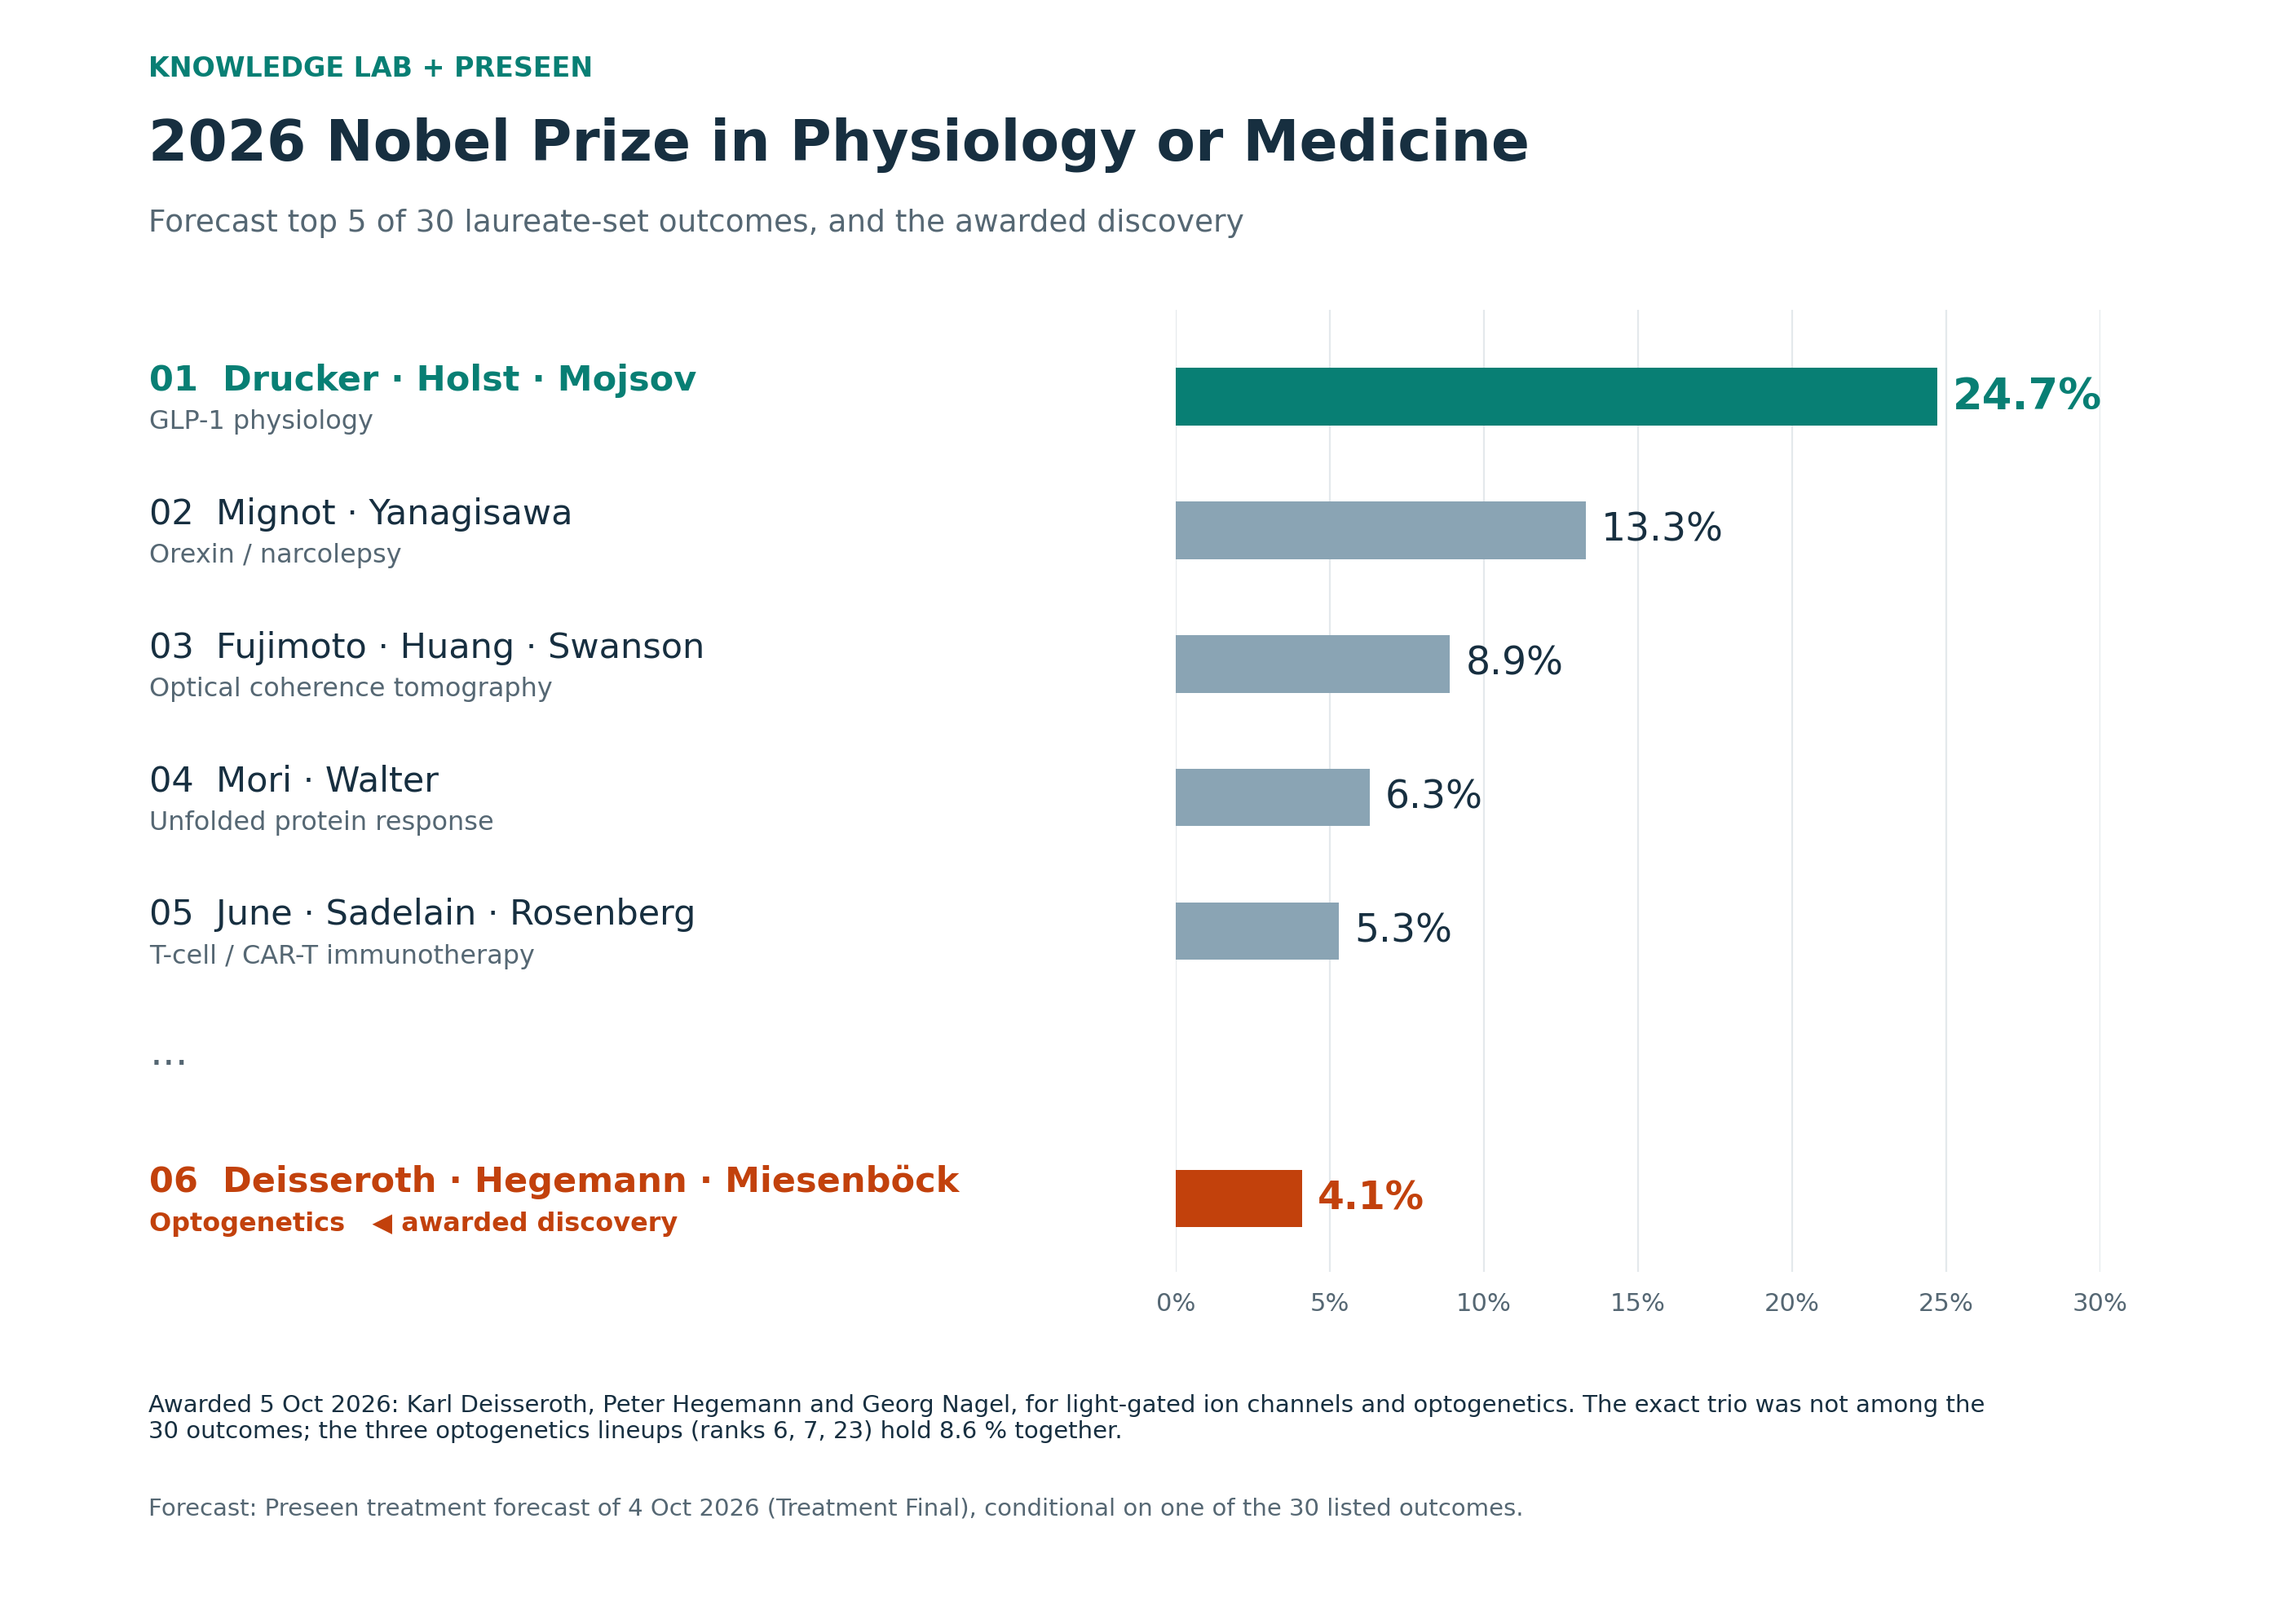
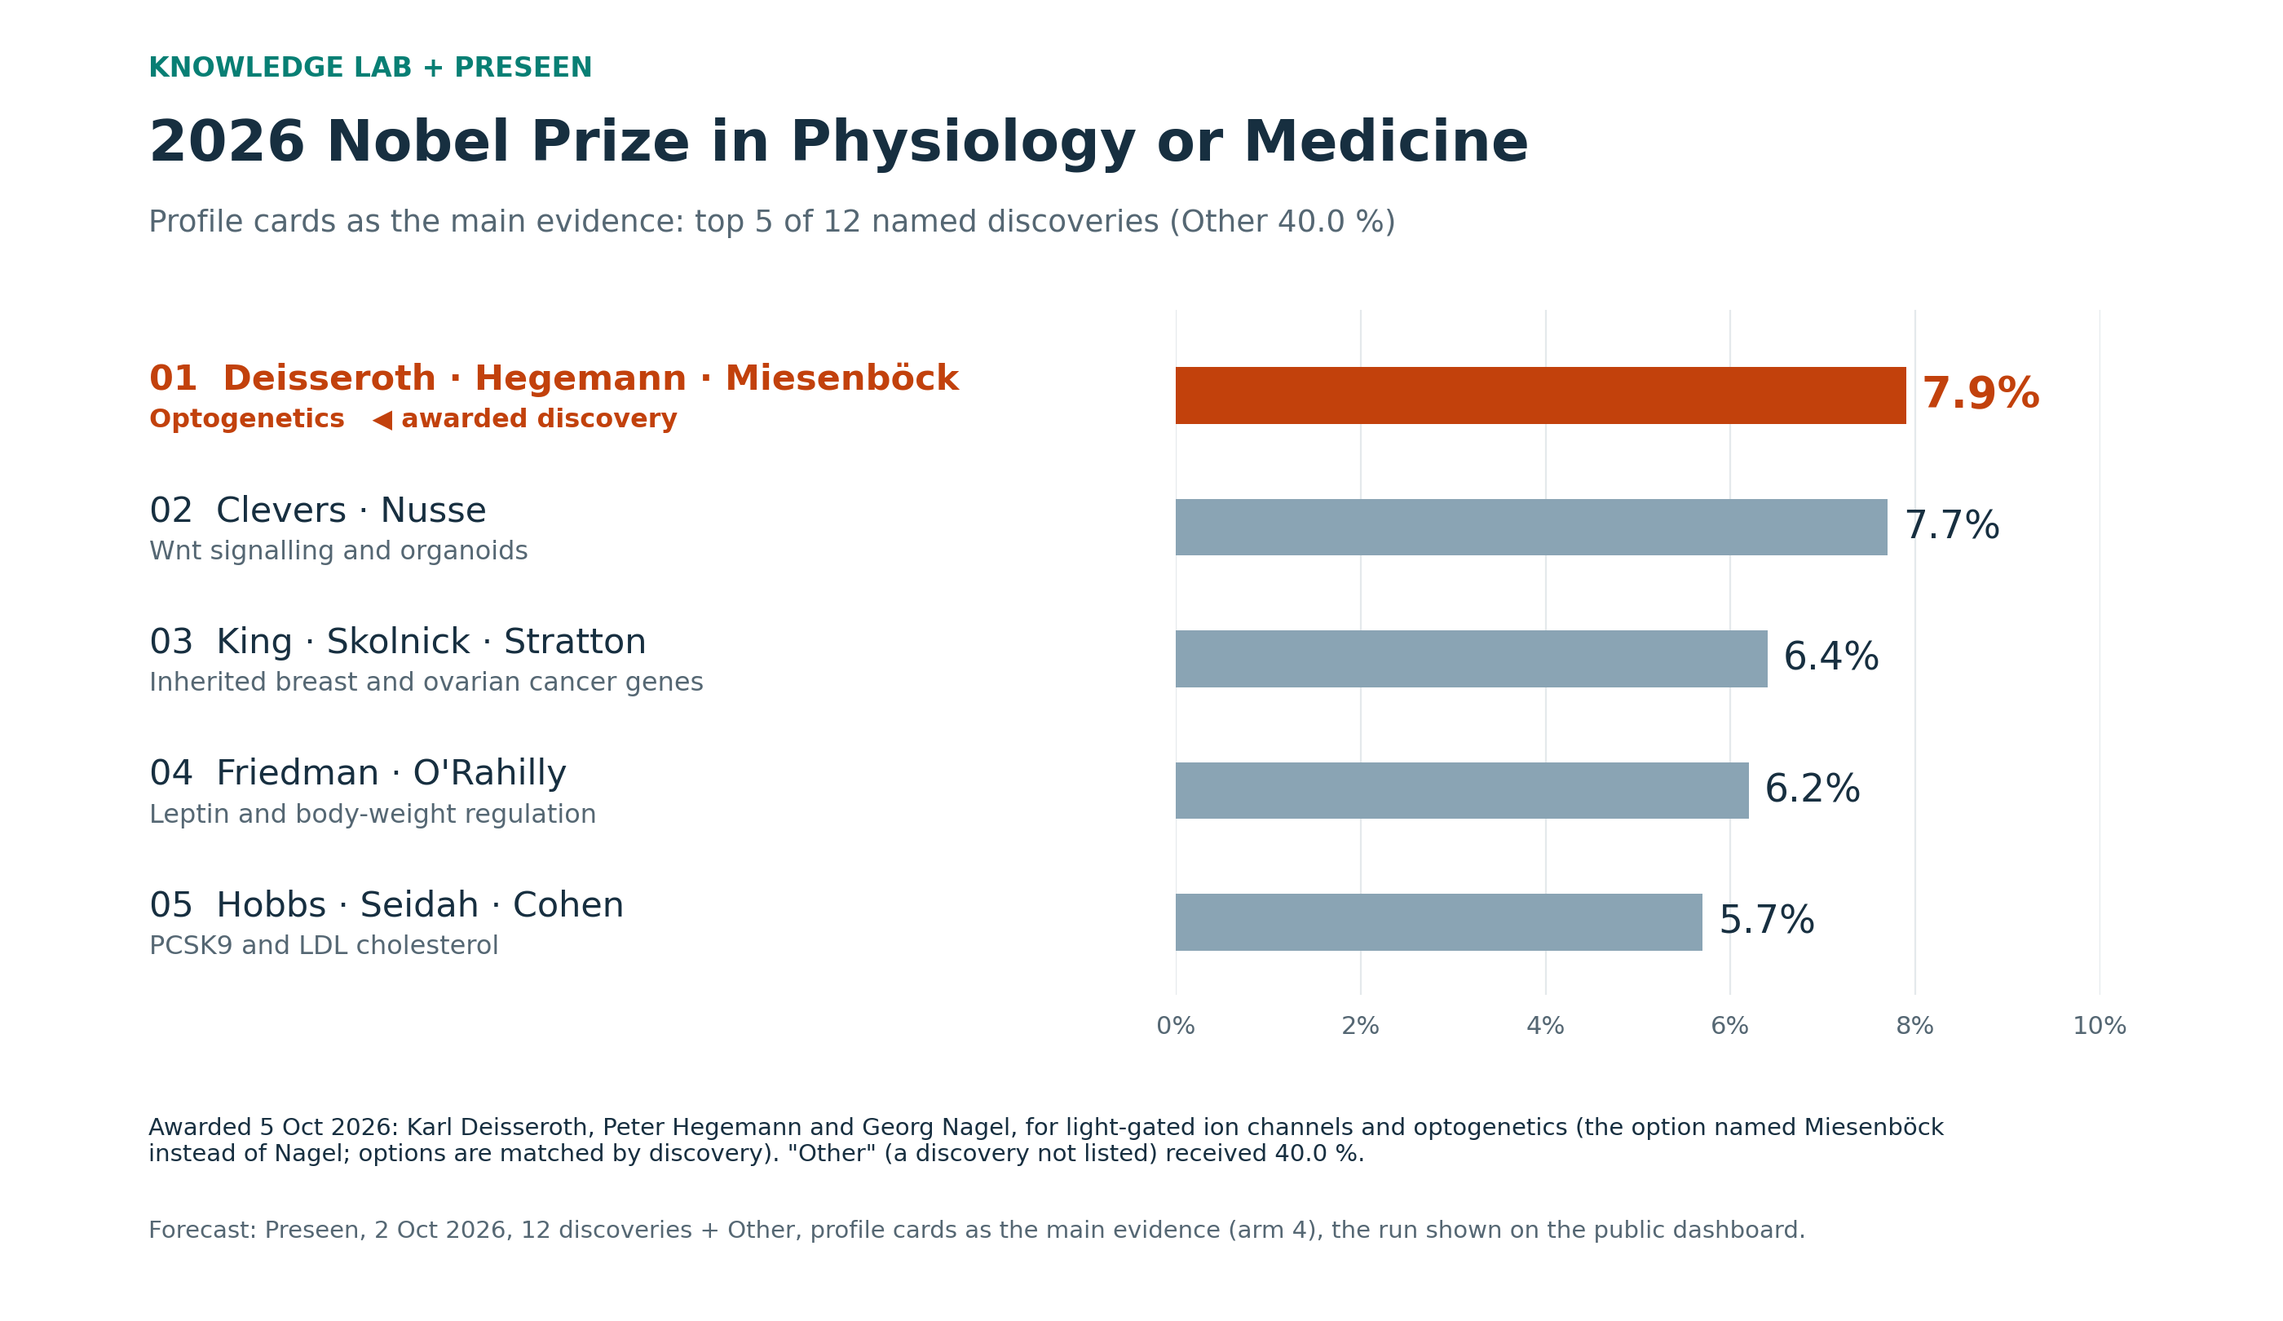
README: Medicine results and setup from the public dashboard (arm 4, cards as the main evidence, 2 October); figure redrawn from that run

diff --git a/docs/nobel2026/make_figures.py b/docs/nobel2026/make_figures.py
@@ -3,7 +3,9 @@
 
     $PY docs/nobel2026/make_figures.py      # -> docs/nobel2026/{medicine,physics}_2026_top5_vs_award.{png,svg}
 
-Data: Data/Result/nobel_{medicine,physics}_2026_probabilities.csv (the final Preseen forecasts, 30 outcomes each). The
+Data: Data/Result/nobel_medicine_2026_cards_main_evidence.csv (the 2 October run with the profile cards as the main
+evidence, 12 discoveries + Other, as on the public dashboard) and Data/Result/nobel_physics_2026_probabilities.csv (the
+5 October final forecast, 30 discoveries). The
 layout follows Data/Result/Figure_Nobel.ipynb (same header, colours and row geometry); added here: the awarded
 discovery is drawn in a second accent colour and, when it is outside the top 5, shown below a gap with its rank.
 """
@@ -24,17 +26,17 @@ TOP_N = 5
 
 FIELDS = {
     "medicine": {
-        "csv": "nobel_medicine_2026_probabilities.csv",
+        "csv": "nobel_medicine_2026_cards_main_evidence.csv",
         "title": "2026 Nobel Prize in Physiology or Medicine",
-        "subtitle": "Forecast top 5 of 30 laureate-set outcomes, and the awarded discovery",
-        "awarded": [6],                       # best-ranked outcome of the awarded discovery (optogenetics)
+        "subtitle": "Profile cards as the main evidence: top 5 of 12 named discoveries (Other 40.0 %)",
+        "awarded": [1],                       # optogenetics
         "award_tag": "awarded discovery",
-        "xmax": 30,
+        "xmax": 10,
         "notes": ["Awarded 5 Oct 2026: Karl Deisseroth, Peter Hegemann and Georg Nagel, for light-gated ion channels and "
-                  "optogenetics. The exact trio was not among the 30 outcomes; the three optogenetics lineups "
-                  "(ranks 6, 7, 23) hold 8.6 % together.",
-                  "Forecast: Preseen treatment forecast of 4 Oct 2026 (Treatment Final), conditional on one of the 30 "
-                  "listed outcomes."],
+                  "optogenetics (the option named Miesenböck instead of Nagel; options are matched by discovery). "
+                  "\"Other\" (a discovery not listed) received 40.0 %.",
+                  "Forecast: Preseen, 2 Oct 2026, 12 discoveries + Other, profile cards as the main evidence (arm 4), "
+                  "the run shown on the public dashboard."],
     },
     "physics": {
         "csv": "nobel_physics_2026_probabilities.csv",
@@ -52,7 +54,8 @@ FIELDS = {
 
 
 def draw(key, cfg):
-    df = pd.read_csv(DATA / cfg["csv"], encoding="utf-8-sig").sort_values("rank")
+    df = pd.read_csv(DATA / cfg["csv"], encoding="utf-8-sig").dropna(subset=["rank"]).sort_values("rank")
+    df["rank"] = df["rank"].astype(int)                  # "Other" (no rank) is stated in the subtitle
     top = df.head(TOP_N)
     extra = df[df["rank"].isin(cfg["awarded"]) & (df["rank"] > TOP_N)]
     rows = list(top.itertuples()) + ([None] if len(extra) else []) + list(extra.itertuples())

diff --git a/README.md b/README.md
@@ -23,8 +23,9 @@ probabilities with and without those cards. This README shows the forecasts for 
 ## 2026 results
 
 Probabilities are conditional on the prize going to one of the listed options (the 30-option questions have no
-"Other"); an option is matched by its discovery, so the named people need not be the laureates, except in the Medicine
-question of 4 October, whose outcomes are exact laureate sets. Forecast data: [`Data/Result/`](Data/Result/); figures:
+"Other"); options are matched by their discovery, so the named people need not be the laureates. The Medicine results
+are those of the public dashboard (https://dawoon-jeong0523.github.io/Author_profile/): four arms of one question,
+1–2 October. Forecast data: [`Data/Result/`](Data/Result/); figures:
 [`docs/nobel2026/make_figures.py`](docs/nobel2026/make_figures.py).
 
 ### Physiology or Medicine (awarded 5 October)
@@ -34,33 +35,38 @@ question of 4 October, whose outcomes are exact laureate sets. Forecast data: [`
 **Award:** Karl Deisseroth, Peter Hegemann and Georg Nagel, "for their discoveries concerning light-gated ion channels
 and optogenetics".
 
-- **Final forecast** (Preseen, 4 October; 30 laureate sets): GLP-1 led with 24.7 %. Optogenetics appeared as three
-  lineups — Deisseroth · Hegemann · Miesenböck (6th, 4.1 %), Deisseroth · Hegemann · Boyden (7th, 3.6 %), Hegemann ·
-  Bamberg · Deisseroth (23rd, 0.9 %) — 8.6 % together; the awarded trio with Nagel was not among the 30 outcomes. In the
-  virtual committee only one of the optogenetics nominations (7 % of the option's points) named exactly Deisseroth,
-  Hegemann and Nagel.
-- **Context conditions** (1–2 October; the same question of 12 discoveries + "Other"):
+**Forecast shown** (arm 4 of the dashboard, profile cards as the main evidence, 2 October): optogenetics was the first
+of the 12 named discoveries with 7.9 % ("Other" 40.0 %), ahead of Wnt signalling and organoids (7.7 %), the breast- and
+ovarian-cancer susceptibility genes (6.4 %), leptin (6.2 %) and PCSK9 (5.7 %); the control favourite GLP-1 fell to
+3.0 %. The option named Miesenböck where the prize went to Nagel; matched by discovery, it is the awarded option (in the
+virtual committee only one optogenetics nomination named exactly Deisseroth, Hegemann and Nagel).
 
-  | Condition | Runs | Optogenetics | Rank among 12 | Leading option | "Other" |
-  |---|---:|---:|---:|---|---:|
-  | No context (control) | 5 | 5.5 % | 6 | GLP-1, 20.3 % | 31 % |
-  | Profile cards as context | 3 | 6.8 % | 3 | GLP-1, 19.6 % | 30 % |
-  | Cards as one of the main sources | 1 | 7.4 % | 4 | orexin, 11.7 % | 34 % |
-  | **Cards as the main evidence** | 1 | **7.9 %** | **1** | **optogenetics**, 7.9 % | 40 % |
+**The four arms** (the same question; numbers as on the dashboard):
 
-  The more weight the forecaster gave to the profile cards, the higher the awarded discovery ranked: first under the
-  main-evidence instruction, sixth without context, where the award favourite GLP-1 led.
+| Arm | Runs | Optogenetics | Rank among 12 | Leading option | GLP-1 | "Other" | Distance from the control mean | Rank correlation with the control |
+|---|---:|---:|---:|---|---:|---:|---:|---:|
+| 1 Control | 5 | 5.5 % | 6 | GLP-1, 20.3 % | 20.3 % | 31.0 % | 1.0× | – |
+| 2 Cards as context | 3 | 6.8 % | 3 | GLP-1, 19.6 % | 19.6 % | 30.4 % | 0.9× | 0.93 |
+| 3 Cards as one main source | 1 | 7.4 % | 4 | orexin, 11.7 % | 11.0 % | 34.0 % | 2.8× | 0.81 |
+| **4 Cards as the main evidence** | 1 | **7.9 %** | **1** | **optogenetics**, 7.9 % | 3.0 % | 40.0 % | 6.2× | −0.03 |
 
-**How each Medicine forecast was set up** (each condition is its own Preseen question with an identical definition;
-notes are context the forecaster receives before it runs):
+Distance: how far a run lands from the mean of the control runs, in units of a control run's own distance from the mean
+of the other control runs (0.75 percentage points per option in Medicine). The more weight the forecaster was told to
+give the cards, the higher the awarded discovery ranked — sixth without them, first as the main evidence — while the
+award favourite GLP-1 fell from 20.3 % to 3.0 % and "Other" grew from 31 % to 40 %.
 
-| Forecast | Question | Context given to the forecaster | What changed from the row above |
-|---|---|---|---|
-| No context (control), 1–2 Oct | 12 committee discoveries + "Other", each naming up to 3 people; resolved by the discovery in the official motivation | none | baseline |
-| Cards as context, 1 Oct | same | a definitions note + 30 profile cards, one per named person (treatment `consider`); no instruction | the cards are added, nothing says how to use them |
-| Cards as one of the main sources, 2 Oct | same | the same cards + an instruction note (`assume_true`): the profiles are one of the main sources, with weight comparable to the other evidence; use prizes, news, published predictions, the history of the prize and knowledge of the field actively; take the figures as given | the forecaster is told to weigh the cards as much as its other evidence ([note](experiment/preseen_cards_balanced/instruction/00_instruction.md)) |
-| Cards as the main evidence (arm 4), 2 Oct, 09:04–09:31 CDT | same | an instruction note (`assume_true`): the profiles are the main evidence for comparing the named options; judge "Other" as usual and use the profiles mainly to divide the remaining probability among the named options; base the relative probabilities primarily on the measures and reference lines; take the figures as given; other information (prizes, news, predictions, history) only as a secondary adjustment; name the profile evidence behind each leading option. Plus the definitions note and the 30 cards (`consider`) | the cards become the basis of the ranking ([note](experiment/preseen_cards_main/instruction/00_instruction.md)); result: "Other" 40 %, optogenetics 7.9 % (first named option), GLP-1 3.0 % |
-| Final forecast, 4 Oct ("Treatment Final", the figure above) | a different question: 30 exact laureate sets with their discovery (GLP-1 named as Drucker · Holst · Mojsov), no "Other"; also a version with "Other" (48.1 %) | not recorded in this repository | not the arm-4 run of 2 October, whose GLP-1 option named Mojsov · Holst · Knudsen |
+**How the arms were set up.** One question, *Which discovery will the 2026 Nobel Prize in Physiology or Medicine be
+awarded for?*: the twelve discoveries of the virtual committee (6 specialist personas of the Medicine committee, each run
+on Claude, GPT and Gemini; Borda count and merge review), each with up to three living people, and "Other"; it resolves
+on the discovery in the official motivation, whoever shares the prize. Each arm is a private copy of the question with
+identical wording, because context notes attach to a question:
+
+| Arm | Context given to the forecaster | What changed from the arm above |
+|---|---|---|
+| 1 Control (4 runs on 1 Oct, 1 on 2 Oct) | the question only | baseline |
+| 2 Cards as context (3 runs, 1 Oct) | a definitions note and 30 profile cards, one per named person (impact, defining papers, patents, textbooks, collaboration, each compared with the 2000–2025 laureates at the time of their prize), as notes to consider; no instruction | the cards are added; nothing says how to use them |
+| 3 Cards as one main source (1 run, 2 Oct) | the same cards + an instruction to assume ([note](experiment/preseen_cards_balanced/instruction/00_instruction.md)): the profiles are one of the main sources, weighed comparably with prizes, news, published predictions, the history of the prize and knowledge of the field, which it should use actively; take the figures as given | the cards get weight comparable to the other evidence |
+| 4 Cards as the main evidence (1 run, 2 Oct, 09:04–09:31 CDT) | the same cards + an instruction to assume ([note](experiment/preseen_cards_main/instruction/00_instruction.md)): the profiles are the main evidence for comparing the named options; judge "Other" as usual and use the profiles mainly to divide the remaining probability among the named options; base the relative probabilities primarily on the measures and reference lines; take the figures as given; prizes, news, predictions and history only as a secondary adjustment; name the profile evidence behind each leading option | the cards become the basis of the ranking |
 
 ### Physics (awarded 6 October)
 
@@ -129,8 +135,8 @@ The scores against the award will be added here after the announcement.
   percentile of laureates, was treated as minor). The chemistry cards now list the patents tied to each discovery.
 - **Name the people the evidence supports, not three by default.** Physics went to one person; the committee had said
   so in half of its nominations.
-- **No final forecast had the award as favourite.** The awarded discoveries were 6th (Medicine, 30 laureate sets) and
-  14th (Physics, 30 discoveries) in the final forecasts.
+- **Where the awarded discoveries stood.** Medicine's optogenetics was the first named option when the cards were the
+  main evidence, but sixth without them; Physics' neutrino astronomy ranked 9th to 14th under every condition.
 
 ## How the forecasts are made
 
@@ -172,7 +178,7 @@ flowchart LR
 | [`experiment/convergence_2026_v2/`](experiment/convergence_2026_v2/README.md) | 6 Oct | v2 lineup rule, medicine list, v1/v2 comparison, cards for every list, age-25 chemistry cards |
 | [`experiment/preseen_generated30/`](experiment/preseen_generated30/README.md) | 6 Oct | 30 chemistry options generated by Preseen |
 | `experiment/preseen_chem30_main/` | 6 Oct | chemistry: main evidence on three lists, control on v2 ([LOG](experiment/preseen_chem30_main/LOG.md)) |
-| [`Data/Result/`](Data/Result/) | 4–5 Oct | final medicine and physics forecasts (CSV) and the figure notebook |
+| [`Data/Result/`](Data/Result/) | 2–5 Oct | forecast tables behind the figures (Medicine: arm 4 of 2 October; Physics: 5 October) and the figure notebook |
 | [`handoff/`](handoff/README.md) | 3 Oct | context and forecasts of the four conditions, kept apart, for Preseen |
 
 ## The data engine: research profiles of scientists
